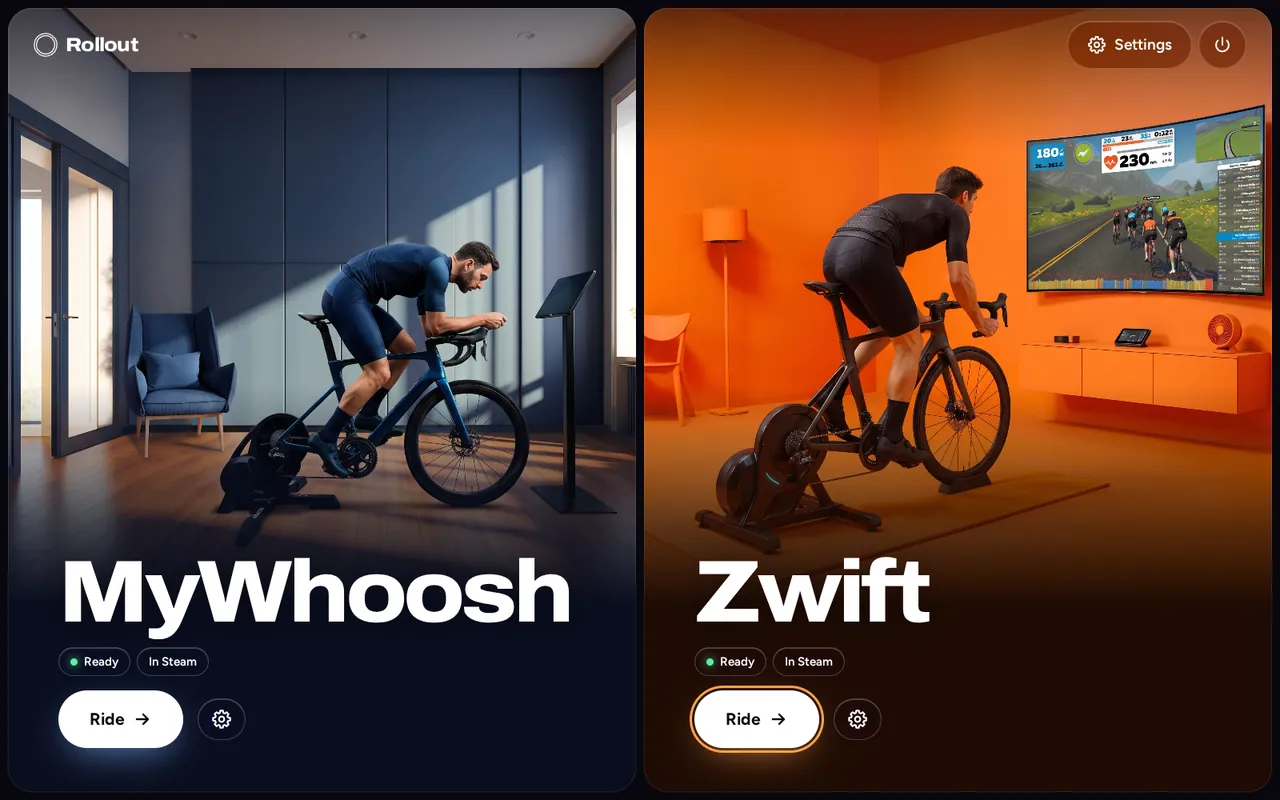
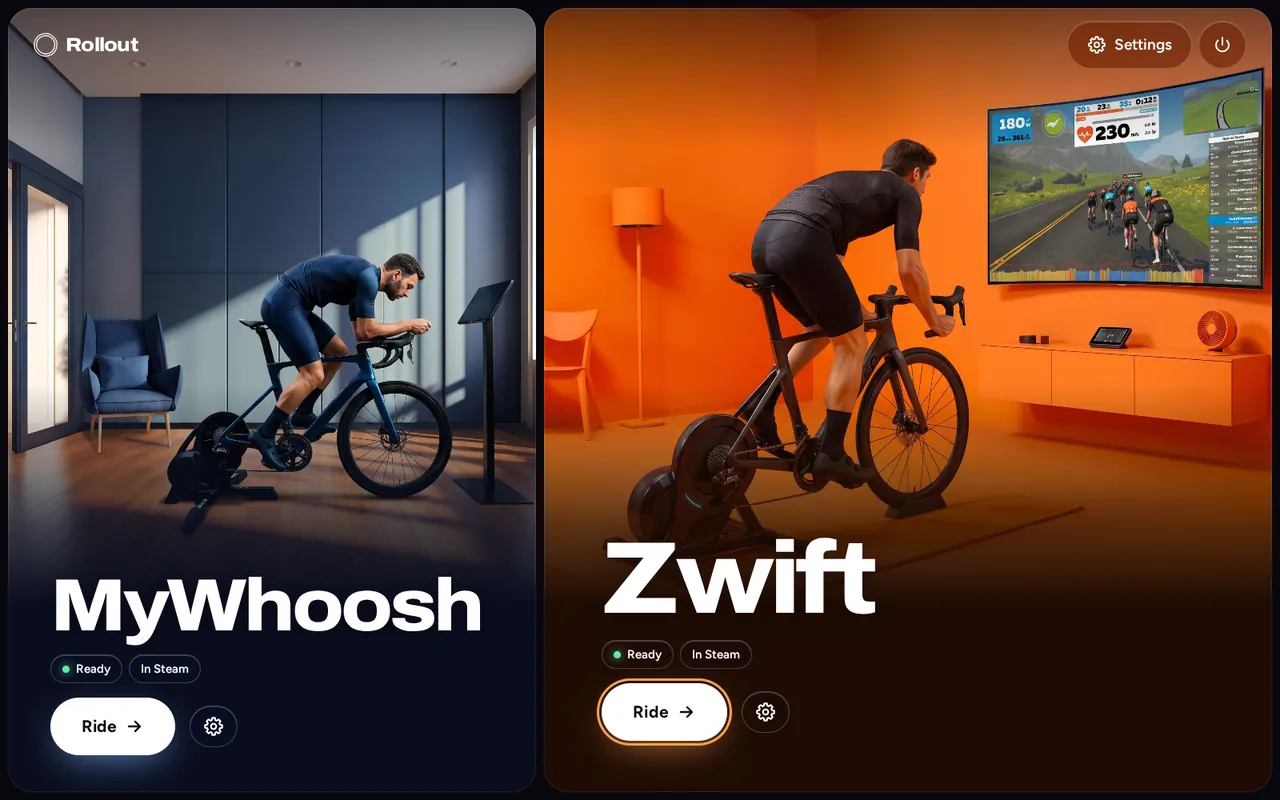
Recapture screenshots from the current app, English only for all language pages and READMEs

diff --git a/site/README.md b/site/README.md
@@ -45,19 +45,17 @@ wie in `static/fonts/`); dafür muss auf dem Rechner ein funktionierendes Fontco
 
 ## Screenshots neu erzeugen
 
-Die Bilder kommen aus der echten App mit simulierten Daten (kein Konto, kein Spiel), nicht aus dem Mockup. Aufnahme je Sprache mit `app/test/shots.mjs` (nutzt den Rahmen der Klicktests,
+Die Bilder kommen aus der echten App mit simulierten Daten (kein Konto, kein Spiel), nicht aus dem Mockup. Alle Sprachseiten und beide READMEs zeigen dieselben englischen Aufnahmen, nur die Bildtexte sind übersetzt. Aufnahme mit `app/test/shots.mjs` (nutzt den Rahmen der Klicktests,
 1600 × 1000, Selektoren statt Beschriftungen):
 
 ```sh
 cd app && npm run build
-for l in en de es fr it pt nl pl; do
-  ROLLOUT_SIM_LANG=$l ROLLOUT_SHOTS=../site/shots-raw/$l ELECTRON_RUN_AS_NODE=1 npx electron test/shots.mjs
-done
+ROLLOUT_SIM_LANG=en ROLLOUT_SHOTS=../site/shots-raw/en ELECTRON_RUN_AS_NODE=1 npx electron test/shots.mjs
 cd ../site && node scripts/process-shots.mjs
 ```
 
-Am Ally `DISPLAY=:0` und `TMPDIR` auf btrfs setzen (siehe `app/README.md`). `process-shots.mjs` schreibt je Sprache `static/screens/<lang>/<name>.{webp,jpg}` und `<name>-640.webp` (1280 × 800 und 640 × 400)
-sowie für das README `docs/media/screens/{en,de}/<name>.jpg` (je unter 300 KB) und `docs/media/hero-carousel.gif` (960 px, 5 Ansichten). Namen: home, pick, before-install, installing, done,
+Am Ally `DISPLAY=:0` und `TMPDIR` auf btrfs setzen (siehe `app/README.md`). `process-shots.mjs` schreibt `static/screens/en/<name>.{webp,jpg}` und `<name>-640.webp` (1280 × 800 und 640 × 400)
+sowie für die READMEs `docs/media/screens/en/<name>.jpg` (je unter 300 KB) und `docs/media/hero-carousel.gif` (960 px, 5 Ansichten). Namen: home, pick, before-install, installing, done,
 bluetooth, starting, error, settings, advanced, light, steam. `shots-raw/` ist nicht im Repo.
 
 ## Veröffentlichen
